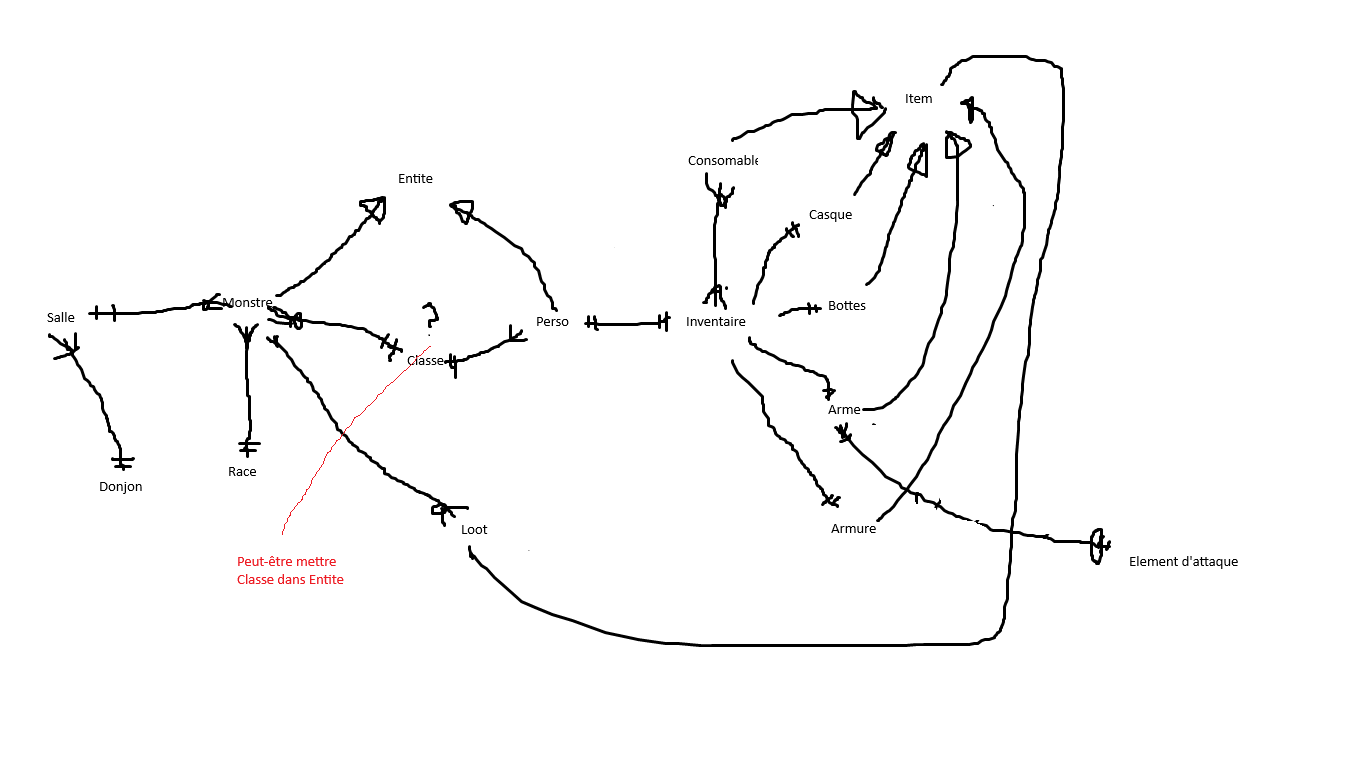
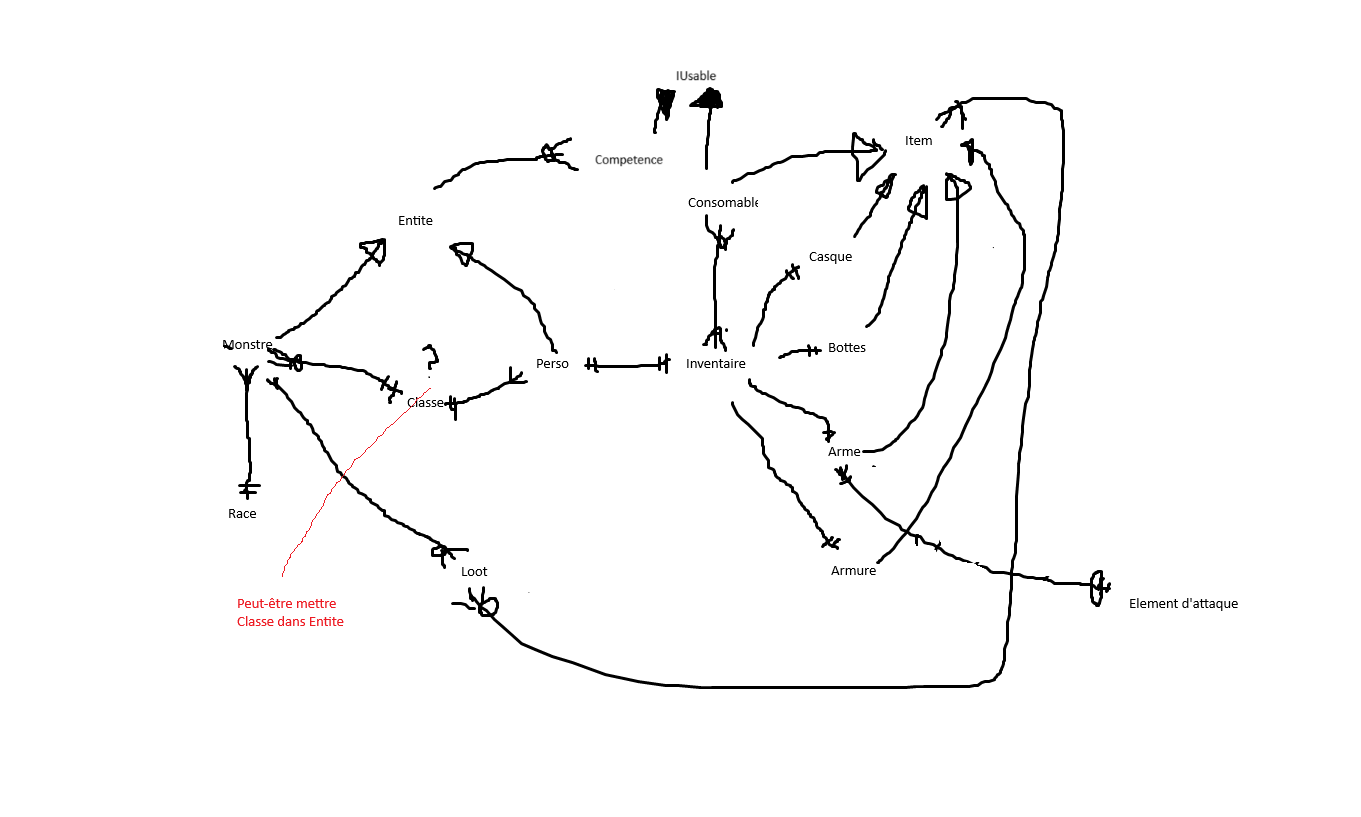
Rework 1. IUsable ne fait plus utiliser(Entite& cible);
Avancement
1.Fight avance à son rythme

diff --git a/funcpp/Entite.h b/funcpp/Entite.h
@@ -16,7 +16,6 @@ protected:
 	int nbCompetence;
 	std::array<Competence,NB_COMP_MAX> competences;
 private:
-	bool estInitialise; // ne pas enlever
 	std::string nom;
 
 	//int level, int exp
@@ -33,6 +32,7 @@ public:
 	Entite(std::string nom,int pv,int pvMax,int pm,int pmMax,int attaque,int defence,int vitesse);
 	Entite(std::string nom, int pv, int pm, int attaque, int defence, int vitesse);
 
+	static int comparerVitesse(Entite* e1, Entite* e2);
 	
 	void altererPv(int modifSubi);
 	void altererPm(int modifSubi);
@@ -43,15 +43,12 @@ public:
 	void altererVitesse(int modifSubi);
 
 	void apprendreCompetence(Competence *newComp);
-	void utiliserCompetence(int indiceDeCompetence, Entite& cible);
-	void utiliserCompetence(int indiceDeCompetence, std::vector<Entite*> cibles);
 
 	//dead
 	virtual void attaqueDeBase(Entite& cible) = 0;
 
 	//getteur
 	bool estVivant();
-	bool estInitialis();
 	std::string getNom();
 
 	virtual int getPv();
@@ -62,5 +59,5 @@ public:
 	virtual int getDefence();
 	virtual int getVitesse();
 	int getNbCompetence();
-	Competence getCompetence(int indice);
+	Competence* getCompetence(int indice);
 };

diff --git a/funcpp/Main.cpp b/funcpp/Main.cpp
@@ -1,7 +1,7 @@
 
 
 #include"Perso.h"
-#include"Salle.h"
+#include"Fight.h"
 #include"Monstre.h"
 #include"Effets.h"
 #include"Consommable.h"
@@ -11,13 +11,17 @@
 
 int main(int argc, char* argv[]) {
 	//nettoyerLog();
-	Perso j{ "jean",100,10,100,100,100 };
-	j.altererPv(-50);
-	Competence co1{ "soin","soigne pv",Effets::soinPv,"25",10 };
-	Affichage::afficher(j);
-	j.apprendreCompetence(&co1);
-	j.utiliserCompetence(0,j );
-	Affichage::afficher(j);
+	Perso p1{ "Alex",100,75,50,50,50 };
+	Monstre m1{ "Slime",25,10,5,5,5 };
+	Competence c1 = { "attaque","al",Effets::infligerDegat,"15",0 };
+	Competence c2 = { "attaque","sl",Effets::infligerDegat,"15",0 };
+	p1.apprendreCompetence(&c1);
+	m1.apprendreCompetence(&c2);
+	std::vector<Monstre*> gm1 = { &m1 };
+	Fight f1{ &p1,gm1 };
+	f1.lancerCombat();
 
+	m1;
+	std::cout << "\n\n FIN";
 	return EXIT_SUCCESS;
 }

diff --git a/funcpp/Fight.h b/funcpp/Fight.h
@@ -1,0 +1,30 @@
+#pragma once
+#include<array>
+#include<vector>
+#include<deque>
+#include"Monstre.h"
+#include"Perso.h"
+
+struct ActionPerforme {
+	std::vector<Entite*> cibles;
+	IUsable* action;
+};
+class Fight 
+{
+public:
+	const static int NB_MONSTRE_MAX = 3;
+private:
+	int nbMonstre;
+	std::vector<Monstre*> ennemis;
+	Perso* joueur;
+public:
+	std::string toSring();
+
+	Fight(Perso* joueur,std::vector<Monstre*> ennemis);
+	//Fight(Perso* joueur, Monstre ennemis);
+	void AddEnnemis(Monstre *ennemis);
+	std::string listeMonstrePresent();
+	void lancerCombat();
+	bool isFinished();
+	void majOrdreDAction(std::deque<Entite*>& ordreDAction);
+};

diff --git a/funcpp/Inventaire.cpp b/funcpp/Inventaire.cpp
@@ -39,12 +39,6 @@ void Inventaire::supprimerConsommable(int indiceConso) {
 	}
 	nbConsommable--;
 }
-void Inventaire::utiliserConsommable(int indiceConso,Entite& cible) {
-	Utilitaire::testHandler(indiceConso < nbConsommable, "indice d'utilisation hors portee", false);
-	Affichage::afficher("--- utilise un(e) " + inventaire[indiceConso]->getNom());
-	inventaire[indiceConso]->utiliser(cible);
-	supprimerConsommable(indiceConso);
-}
 
 void Inventaire::ajouterEquipement(Casque casque) {
 	this->casque = casque;

diff --git a/funcpp/Consommable.cpp b/funcpp/Consommable.cpp
@@ -13,7 +13,9 @@ Consommable::Consommable(std::string nom,std::string description, std::function<
 	IUsable::possesseur = possesseur;
 }
 
-void Consommable::utiliser(Entite& cible) {
-	int valeur = Utilitaire::applicationFormuleDeDegat(formule, *possesseur, cible);
-	effet(cible, valeur);
+void Consommable::utiliser(std::vector<Entite*> cibles) {
+	for (Entite* cible : cibles) {
+		int valeur = Utilitaire::applicationFormuleDeDegat(formule, *possesseur, *cible);
+		effet(*cible, valeur);
+	}
 }

diff --git a/funcpp/AffichageConsole.h b/funcpp/AffichageConsole.h
@@ -7,7 +7,7 @@
 #include"Inventaire.h"
 #include"Monstre.h"
 #include"Perso.h"
-#include"Salle.h"
+#include"Fight.h"
 namespace Affichage
 {
 	void afficher(std::string st);
@@ -18,5 +18,5 @@ namespace Affichage
 	void afficher(Inventaire& in);
 	//void afficher(Monstre& mo);
 	void afficher(Perso& pe);
-	void afficher(Salle& sa);
+	void afficher(Fight& sa);
 };

diff --git a/funcpp/Inventaire.h b/funcpp/Inventaire.h
@@ -29,7 +29,6 @@ public:
 	// pour le moment juste 1 inventaire limiter a 5
 	void ajouterConsommable(Consommable& nouvConso);
 	void supprimerConsommable(int indiceConso);
-	void utiliserConsommable(int indiceConso,Entite& cible);
 
 	void ajouterEquipement(Casque casque);
 	void ajouterEquipement(Arme arme);

diff --git a/funcpp/AffichageConsole.cpp b/funcpp/AffichageConsole.cpp
@@ -23,6 +23,6 @@ void Affichage::afficher(Inventaire& in) {
 void Affichage::afficher(Perso& pe) {
 	std::cout << pe.toString()+"\n";
 }
-void Affichage::afficher(Salle& sa) {
-	std::cout << sa.toSring();
+void Affichage::afficher(Fight& fi) {
+	std::cout << fi.toSring();
 }

diff --git a/funcpp/Consommable.h b/funcpp/Consommable.h
@@ -10,5 +10,5 @@ public:
 	std::string toString();
 
 	Consommable(std::string nom,std::string description, std::function<void(Entite&, int)> effet,std::string formule,Entite* possesseur);
-	void utiliser(Entite& cible);
+	void utiliser(std::vector<Entite*> cibles);
 };
